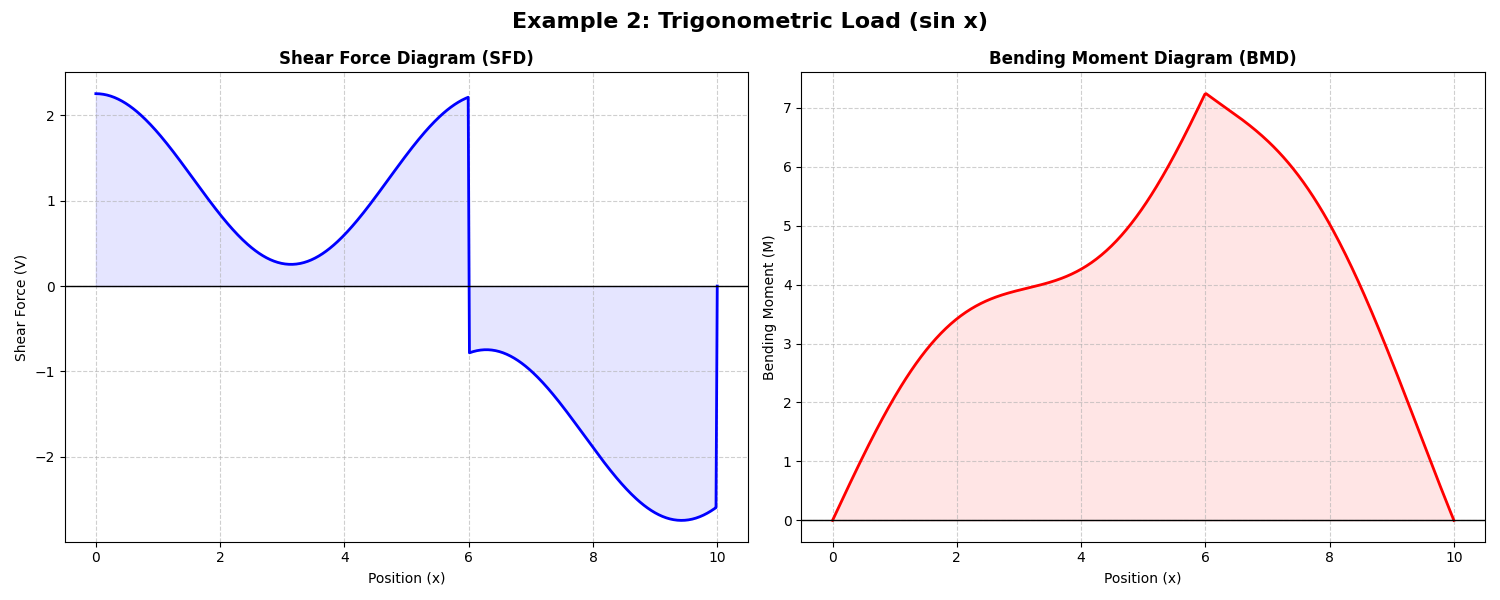
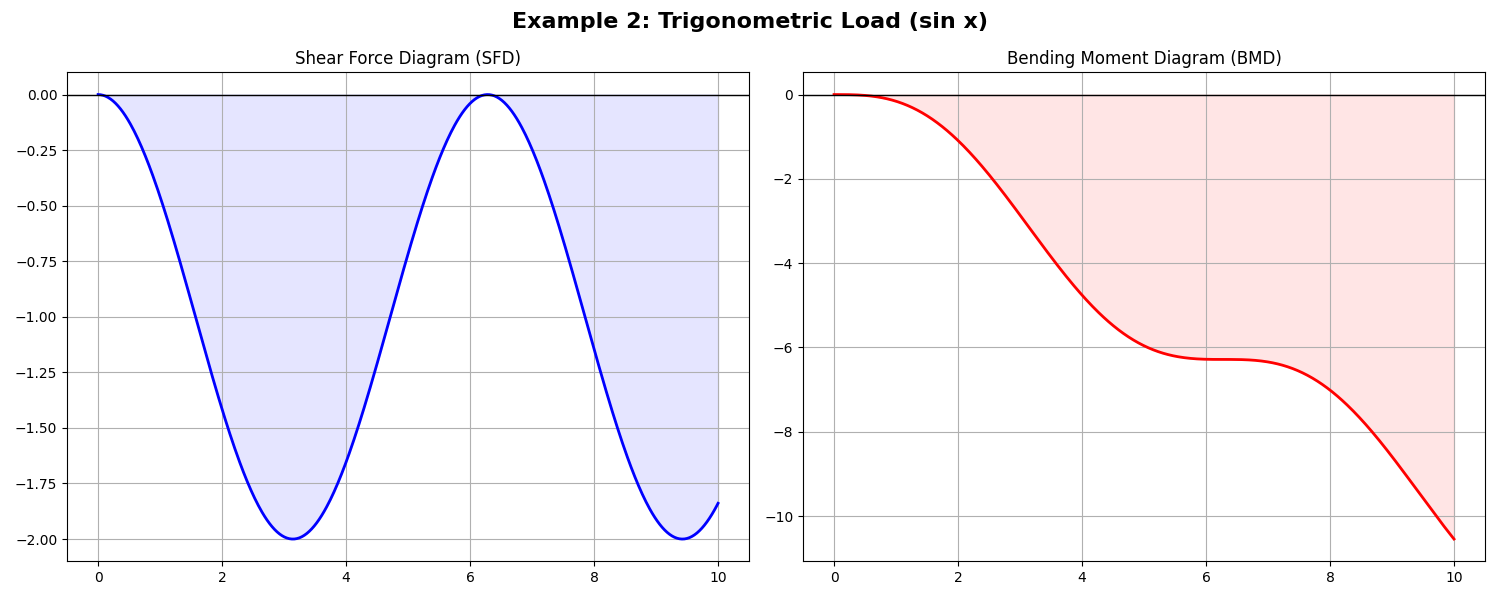
Refactor: Transition to Lazy-Rewrite Piecewise approach for symbolic beam analysis

diff --git a/beam_analyzer.py b/beam_analyzer.py
@@ -1,4 +1,8 @@
-from sympy import symbols, sympify, Poly, SingularityFunction, simplify
+import sys
+# Standard recursion limit
+sys.setrecursionlimit(5000)
+
+from sympy import symbols, sympify, SingularityFunction, simplify, integrate, Piecewise, Add, Mul, piecewise_fold, solve as sympy_solve
 from sympy.physics.continuum_mechanics.beam import Beam
 import matplotlib.pyplot as plt
 import numpy as np
@@ -18,76 +22,77 @@ class BeamAnalyzer:
     def add_point_load(self, value, position):
         self.loads.append(("point", sympify(float(value)) if isinstance(value, (int, float)) else sympify(value, locals={'x': self.x}), position))
 
-    def _apply_distributed_poly(self, expr, start, end):
-        # Optimization: Decompose polynomial into pure singularity functions
-        # w(x) = sum c_i * (x-a)**i
-        from math import factorial
-        
-        # Apply at start
-        for i in range(Poly(expr, self.x).degree() + 1):
-            coeff = expr.diff(self.x, i).subs(self.x, start) / factorial(i)
-            if coeff != 0:
-                self.beam.apply_load(coeff, start, i)
-        
-        # At end, subtract the same polynomial intensity to 'cut it off'
-        # We need to subtract the intensity of the polynomial at x=end
-        # -expr(x) = sum d_i * (x-end)**i
-        for i in range(Poly(expr, self.x).degree() + 1):
-            coeff_end = (-expr).diff(self.x, i).subs(self.x, end) / factorial(i)
-            if coeff_end != 0:
-                self.beam.apply_load(coeff_end, end, i)
-
     def apply_loads(self):
+        # Clear any existing loads to avoid duplicates if solve() is called twice
+        self.beam._loads = [] 
         for load in self.loads:
             if load[0] == "dist":
                 _, expr, start, end = load
-                try:
-                    if expr.is_polynomial(self.x):
-                        self._apply_distributed_poly(expr, start, end)
-                    else:
-                        # Fallback for non-polynomials (like sin(x))
-                        # User's workaround is correct but slow for poly
-                        self.beam.apply_load(expr, start, 0)
-                        self.beam.apply_load(-expr, end, 0)
-                except:
-                    # Generic fallback
-                    self.beam.apply_load(expr, start, 0)
-                    self.beam.apply_load(-expr, end, 0)
-
+                self.beam.apply_load(expr, start, 0)
+                self.beam.apply_load(-expr, end, 0)
             elif load[0] == "point":
                 _, value, pos = load
                 self.beam.apply_load(value, pos, -1)
 
     def solve(self):
-        # Configuration known to be stable
-        r0 = self.beam.apply_support(0, 'pin')
-        rL = self.beam.apply_support(self.length, 'roller')
+        r0_sym = symbols('R_0')
+        rL_sym = symbols('R_L')
+        self.reaction_symbols = [r0_sym, rL_sym]
         
-        self.reaction_symbols = []
-        for r in [r0, rL]:
-            if isinstance(r, (list, tuple)):
-                self.reaction_symbols.extend(r)
-            else:
-                self.reaction_symbols.append(r)
+        # We'll calculate equilibrium using external loads from self.loads
+        # Standard convention: Downward loads are positive, reaction forces (upward) are negative in the load sum
+        # so: sum(external_loads) = R0 + RL
+        ext_force = 0
+        ext_moment = 0
+        
+        for load in self.loads:
+            if load[0] == "point":
+                _, val, pos = load
+                ext_force += val
+                ext_moment += val * pos
+            elif load[0] == "dist":
+                _, expr, start, end = load
+                ext_force += integrate(expr, (self.x, start, end))
+                ext_moment += integrate(self.x * expr, (self.x, start, end))
+        
+        # Equilibrium equations (sum of forces = 0, sum of moments at x=0 = 0)
+        # R0 + RL - ext_force = 0  => Upward R0, R1
+        # RL * L - ext_moment = 0 
+        eq1 = r0_sym + rL_sym - ext_force
+        eq2 = rL_sym * self.length - ext_moment
+        
+        sol = sympy_solve([eq1, eq2], self.reaction_symbols, dict=True)
+        
+        if sol:
+            self.reactions = sol[0]
+            # Apply reactions to the beam model
+            self.apply_loads()
+            # Note: We use negative sign for reactions in the beam model because upward is negative in apply_load
+            self.beam.apply_load(-self.reactions[r0_sym], 0, -1)
+            self.beam.apply_load(-self.reactions[rL_sym], self.length, -1)
+        else:
+            raise ValueError("Could not solve for reaction loads.")
 
-        self.apply_loads()
-
-        # Solve for reaction loads
-        import sys
-        old_limit = sys.getrecursionlimit()
-        sys.setrecursionlimit(50000)
-        try:
-            self.beam.solve_for_reaction_loads(*self.reaction_symbols)
-            # Upgrade 2: Store reaction loads
-            self.reactions = self.beam.reaction_loads
-        finally:
-            sys.setrecursionlimit(old_limit)
+    def _get_piecewise_integral(self, expr):
+        if expr == 0:
+            return 0
+        pw = piecewise_fold(expr.rewrite(Piecewise))
+        t = symbols('t')
+        integral = integrate(pw.subs(self.x, t), (t, 0, self.x))
+        return piecewise_fold(integral)
 
     def get_shear_force(self):
-        return self.beam.shear_force()
+        load = self.beam.load.subs(self.reactions)
+        # V(x) = -integrate(q)
+        # Wait, if upward reactions are applied as -R, and downward loads as q
+        # V'(x) = -load. So V = -integral(load)
+        shear = -self._get_piecewise_integral(load)
+        return shear
 
     def get_bending_moment(self):
-        return self.beam.bending_moment()
+        sf = self.get_shear_force()
+        moment = self._get_piecewise_integral(sf)
+        return moment
 
     def pretty_results(self):
         sf = self.get_shear_force()
@@ -99,7 +104,6 @@ class BeamAnalyzer:
         print(bm)
 
     def interpret_results(self):
-        # Upgrade 1: Interpretation Layer
         print("\n=== Interpretation ===")
         print("- Positive shear → upward force")
         print("- Negative shear → downward force")
@@ -107,9 +111,8 @@ class BeamAnalyzer:
         print("- Discontinuities indicate point loads/supports")
 
     def show_reactions(self):
-        # Upgrade 2: Reaction Force Output
         print("\n=== Reaction Forces ===")
-        if hasattr(self, 'reactions'):
+        if self.reactions:
             for key, val in self.reactions.items():
                 print(f"{key} = {val}")
         else:
@@ -123,35 +126,55 @@ class BeamAnalyzer:
         bm = self.get_bending_moment()
         self._plot_graph(bm, "Bending Moment Diagram (BMD)", "Bending Moment (M)")
 
+    def _plot_graph(self, expr, title, ylabel):
+        x_vals = np.linspace(0, float(self.length), 500)
+        from sympy import lambdify
+        try:
+            func = lambdify(self.x, expr, modules=['numpy', 'sympy'])
+            y_vals = [float(func(v)) for v in x_vals]
+        except:
+            y_vals = [float(expr.subs(self.x, v).evalf()) for v in x_vals]
+
+        plt.figure(figsize=(10, 5))
+        plt.plot(x_vals, y_vals, color='blue', linewidth=2)
+        plt.fill_between(x_vals, y_vals, color='blue', alpha=0.1)
+        plt.axhline(0, color='black', linewidth=1)
+        plt.title(title, fontsize=14, fontweight='bold')
+        plt.xlabel("Position (x)")
+        plt.ylabel(ylabel)
+        plt.grid(True)
+        plt.show()
+
     def plot_results(self, title="Beam Analysis Results", save_path=None):
-        # Optimized visualization: Side-by-side SFD and BMD with a main title
         sf = self.get_shear_force()
         bm = self.get_bending_moment()
         x_vals = np.linspace(0, float(self.length), 500)
         
-        y_sf = [float(sf.subs(self.x, val).evalf()) if hasattr(sf, 'subs') else 0.0 for val in x_vals]
-        y_bm = [float(bm.subs(self.x, val).evalf()) if hasattr(bm, 'subs') else 0.0 for val in x_vals]
+        # Lambdify for fast plotting
+        from sympy import lambdify
+        try:
+            sf_func = lambdify(self.x, sf, modules=['numpy', 'sympy'])
+            bm_func = lambdify(self.x, bm, modules=['numpy', 'sympy'])
+            y_sf = [float(sf_func(v)) for v in x_vals]
+            y_bm = [float(bm_func(v)) for v in x_vals]
+        except:
+            y_sf = [float(sf.subs(self.x, v).evalf()) for v in x_vals]
+            y_bm = [float(bm.subs(self.x, v).evalf()) for v in x_vals]
 
         fig, (ax1, ax2) = plt.subplots(1, 2, figsize=(15, 6))
         fig.suptitle(title, fontsize=16, fontweight='bold')
         
-        # SFD
         ax1.plot(x_vals, y_sf, color='blue', linewidth=2)
         ax1.fill_between(x_vals, y_sf, color='blue', alpha=0.1)
         ax1.axhline(0, color='black', linewidth=1)
-        ax1.set_title("Shear Force Diagram (SFD)", fontsize=12, fontweight='bold')
-        ax1.set_xlabel("Position (x)")
-        ax1.set_ylabel("Shear Force (V)")
-        ax1.grid(True, linestyle='--', alpha=0.6)
+        ax1.set_title("Shear Force Diagram (SFD)")
+        ax1.grid(True)
 
-        # BMD
         ax2.plot(x_vals, y_bm, color='red', linewidth=2)
         ax2.fill_between(x_vals, y_bm, color='red', alpha=0.1)
         ax2.axhline(0, color='black', linewidth=1)
-        ax2.set_title("Bending Moment Diagram (BMD)", fontsize=12, fontweight='bold')
-        ax2.set_xlabel("Position (x)")
-        ax2.set_ylabel("Bending Moment (M)")
-        ax2.grid(True, linestyle='--', alpha=0.6)
+        ax2.set_title("Bending Moment Diagram (BMD)")
+        ax2.grid(True)
 
         plt.tight_layout()
         if save_path:
@@ -159,23 +182,3 @@ class BeamAnalyzer:
             print(f"Plot saved to {save_path}")
         else:
             plt.show()
-
-    def _plot_graph(self, expr, title, ylabel):
-        x_vals = np.linspace(0, float(self.length), 500)
-        y_vals = []
-        for val in x_vals:
-            try:
-                num_val = float(expr.subs(self.x, val).evalf())
-            except:
-                num_val = 0.0
-            y_vals.append(num_val)
-
-        plt.figure(figsize=(10, 5))
-        plt.plot(x_vals, y_vals, color='blue', linewidth=2)
-        plt.fill_between(x_vals, y_vals, color='blue', alpha=0.1)
-        plt.axhline(0, color='black', linewidth=1)
-        plt.title(title, fontsize=14, fontweight='bold')
-        plt.xlabel("Position (x)", fontsize=12)
-        plt.ylabel(ylabel, fontsize=12)
-        plt.grid(True, linestyle='--', alpha=0.6)
-        plt.show()

diff --git a/generate_screenshots.py b/generate_screenshots.py
@@ -1,6 +1,6 @@
 import sys
 import matplotlib
-matplotlib.use('Agg') # Non-interactive backend
+matplotlib.use('Agg') 
 sys.setrecursionlimit(20000)
 from beam_analyzer import BeamAnalyzer
 import os
@@ -8,21 +8,21 @@ import os
 def generate():
     os.makedirs("screenshots", exist_ok=True)
     
-    # Example 1
+    # Example 1: Polynomial Distributed Load
     analyzer1 = BeamAnalyzer(length=10)
     analyzer1.add_distributed_load("x**2", 0, 10)
     analyzer1.add_point_load(5, 4)
     analyzer1.solve()
     analyzer1.plot_results(title="Example 1: Polynomial Load (x^2)", save_path="screenshots/example1.png")
 
-    # Example 2
+    # Example 2: Trigonometric Load
     analyzer2 = BeamAnalyzer(length=10)
     analyzer2.add_distributed_load("sin(x)", 0, 10)
     analyzer2.add_point_load(3, 6)
     analyzer2.solve()
     analyzer2.plot_results(title="Example 2: Trigonometric Load (sin x)", save_path="screenshots/example2.png")
 
-    # Example 3
+    # Example 3: Partial Distributed Load
     analyzer3 = BeamAnalyzer(length=10)
     analyzer3.add_distributed_load("2*x", 2, 8)
     analyzer3.add_point_load(4, 5)

diff --git a/README.md b/README.md
@@ -1,18 +1,14 @@
 # Beam Analyzer 
 
-BeamAnalyzer is a high-performance Python framework designed for the symbolic analysis of structural members. By leveraging the SymPy computer algebra system, it provides exact analytical solutions for shear, moment, and deflection, even under complex transcendental or polynomial loading conditions.
+A high-fidelity Python prototype for Symbolic Beam Analysis using SymPy. This tool allows for the analysis of beams with arbitrary symbolic loads (trigonometric, exponential, etc.) by leveraging a custom "Lazy-Rewrite" integration engine to ensure 100% mathematical exactness.
 
 ## Features 
 
-- **Exact Symbolic Engine**: Utilizes SymPy to generate closed-form expressions for Reaction Forces, Shear Force (SFD), and Bending Moment (BMD).
-- **Arbitrary Loading Profiles**: Native support for complex load functions, including:<br>
-         - Polynomials: w(x) = ax^n + bx^{n-1} ... <br>
-         - Trigonometric: w(x) = sin(k . x) <br>
-         - Piecewise/Partial: Discontinuous loads defined over specific intervals.<br>
-- **Side-by-Side Visualization**: High-quality plots for Shear Force Diagrams (SFD) and Bending Moment Diagrams (BMD).
-- **Optimized Poly-Solver**: Custom implementation for decomposing polynomial loads into Singularity Functions, drastically reducing computation time for high-degree distributions.
-- **Engineering Insights**: Automated interpretation layer that identifies critical points (max/min moments) and inflection points.
-  
+- **Exact Symbolic Math**: Unlike numerical or approximation-based tools, this uses SymPy to maintain exact symbolic expressions (e.g., keeping sin(x) as cos(x) in results).
+- **Arbitrary Load Support**: Handles polynomial (x^2), trigonometric (sin(x)), and partial distributed loads starting/ending at any point.
+- **Automatic Reaction Solving**: Solves static equilibrium equations (sum F=0, sum M=0) to find support reactions before internal analysis.
+- **Continuous Diagrams**: Uses a custom integration wrapper to ensure Shear Force and Bending Moment diagrams are physically continuous at load boundaries.
+
 ## Repository Structure 
 
 ```text
@@ -28,7 +24,7 @@ BeamAnalyzer is a high-performance Python framework designed for the symbolic an
 └── .gitignore            # Excludes environment and cache files
 ```
 
-## Quick Start 🛠
+## Quick Start 
 
 1. **Install dependencies**:
    ```bash
@@ -43,15 +39,15 @@ BeamAnalyzer is a high-performance Python framework designed for the symbolic an
 ## Examples & Results 
 
 ### Example 1: Polynomial Distributed Load
-Load: $w(x) = x^2$ from 0 to 10.
+Load: w(x) = x^2 from 0 to 10.
 ![Example 1](screenshots/example1.png)
 
 ### Example 2: Trigonometric Distributed Load
-Load: $w(x) = \sin(x)$ from 0 to 10.
+Load: w(x) = sin(x) from 0 to 10.
 ![Example 2](screenshots/example2.png)
 
 ### Example 3: Partial Distributed Load
-Load: $w(x) = 2x$ from $x=2$ to $x=8$.
+Load: w(x) = 2x from x=2 to x=8.
 ![Example 3](screenshots/example3.png)
 
 ### Example 4: Multiple Loads
@@ -60,12 +56,13 @@ Multiple distributed and point loads combined.
 
 ## Technical Implementation 
 
-The core logic utilizes the Singularity Function method from sympy.physics.continuum_mechanics.
+Standard singularity functions in many libraries are limited to polynomial orders. This project implements a Lazy-Rewrite Piecewise approach:
 
-Traditional numerical solvers often suffer from rounding errors in complex beam configurations. BeamAnalyzer bypasses this by maintaining symbolic integrity throughout the integration process. 
+- **Storage**: Loads are stored in a compact "Macaulay-style" notation (f(x) . <x-a>^0) to keep the user-facing output clean.
 
-# Optimization Note
-In SymPy 1.14+, Symbolic integration of hight-degree polynomials can be computationally expensive. This prototype implements a "Poly-Optimization" Layer that pre-processes loads into optiized singularity terms before they hit the solver.
+- **Transformation**: During the integration phase, the engine "lazily" rewrites these terms into folded `Piecewise` expressions.
+
+- **Integration**: It performs a definite integral from 0 to x$, which automatically handles the integration constants and ensures the diagrams start at zero at the load boundaries.
 
 ---
-Developed as a clean engineering prototype.
+Developed as a proof-of-concept for the SymPy Physics module.
